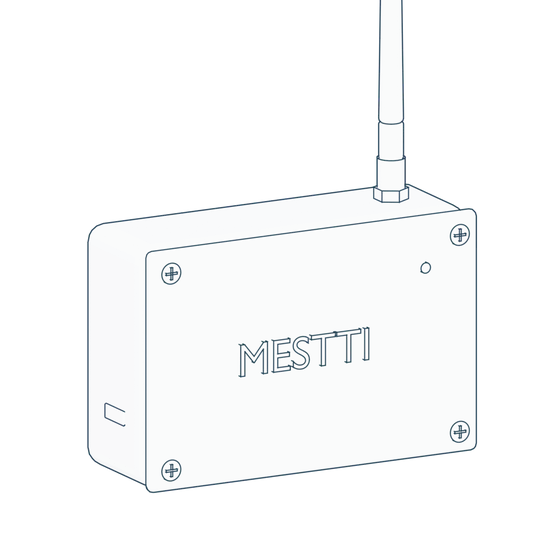
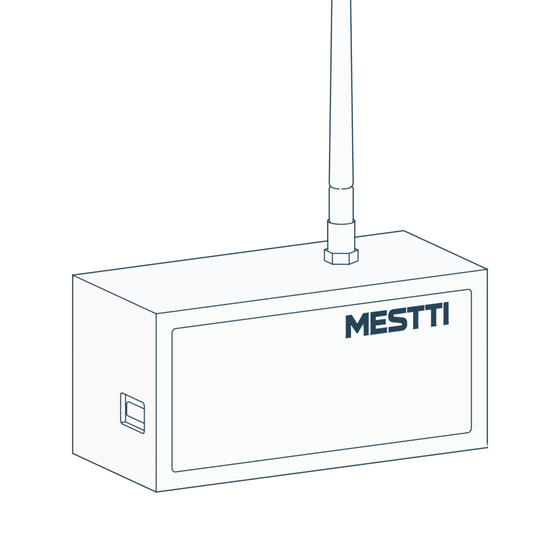
feat(manual): caixa real do sensor e seção "No dia a dia"
- Caixa remodelada pelas fotos: sem parafusos, painel rebaixado, logotipo
  real (gerado do PNG do site, em tinta sólida), USB-C numa ponta e, na
  outra, botão de reset ao lado da luz, abertura, furos e borne.
- Nova seção "No dia a dia": botão de reset (segurar 10 s volta ao modo
  de configuração), SEM SINAL em laranja (reconecta sozinho; continua
  medindo e a Mestti reconstrói o período), fonte sempre ligada, pinça
  fechada em uma fase, troca de máquina e leitura da luz.
- Ajuda: troca de Wi-Fi pelo reset e pergunta sobre SEM SINAL.
- Sequência da abertura em giro-v2/ para não servir quadros antigos do cache.

Changed region(s): [[0.1214, 0.0, 0.8804, 0.8804], [0.4857, 0.7893, 0.6982, 0.8196], [0.2125, 0.3643, 0.425, 0.3946]]

diff --git a/manual/sensor-de-corrente/index.html b/manual/sensor-de-corrente/index.html
@@ -13,14 +13,14 @@
     <link rel="preconnect" href="https://fonts.googleapis.com">
     <link rel="preconnect" href="https://fonts.gstatic.com" crossorigin>
     <link href="https://fonts.googleapis.com/css2?family=IBM+Plex+Mono:wght@400;500&family=Inter:wght@400;500;600;700&display=swap" rel="stylesheet">
-    <link rel="stylesheet" href="/css/manual-sensor.css?v=5">
+    <link rel="stylesheet" href="/css/manual-sensor.css?v=6">
     <link rel="canonical" href="https://mestti.com.br/manual/sensor-de-corrente/">
     <meta property="og:type" content="website">
     <meta property="og:site_name" content="MESTTI">
     <meta property="og:title" content="Manual do sensor de corrente | Mestti">
     <meta property="og:description" content="Como instalar o sensor de corrente Mestti no painel elétrico e conectar ao Wi-Fi.">
     <meta property="og:url" content="https://mestti.com.br/manual/sensor-de-corrente/">
-    <meta property="og:image" content="https://mestti.com.br/images/manual/sensor-de-corrente/kit-sensor.webp">
+    <meta property="og:image" content="https://mestti.com.br/images/manual/sensor-de-corrente/kit-sensor.webp?v=2">
     <meta property="og:locale" content="pt_BR">
     <script type="application/ld+json">{"@context": "https://schema.org", "@graph": [{"@type": "WebPage", "@id": "https://mestti.com.br/manual/sensor-de-corrente/#webpage", "url": "https://mestti.com.br/manual/sensor-de-corrente/", "name": "Manual do sensor de corrente | Mestti", "inLanguage": "pt-BR", "isPartOf": {"@id": "https://mestti.com.br/#website"}}, {"@type": "BreadcrumbList", "itemListElement": [{"@type": "ListItem", "position": 1, "name": "Início", "item": "https://mestti.com.br/"}, {"@type": "ListItem", "position": 2, "name": "Sensores", "item": "https://mestti.com.br/sensores/"}, {"@type": "ListItem", "position": 3, "name": "Manual do sensor de corrente", "item": "https://mestti.com.br/manual/sensor-de-corrente/"}]}]}</script>
 </head>
@@ -48,6 +48,7 @@
             <li><a href="#passo-7" data-rail="7"><span>07</span>Wi-Fi</a></li>
             <li><a href="#passo-8" data-rail="8"><span>08</span>Luz</a></li>
             <li><a href="#passo-9" data-rail="9"><span>09</span>Máquina</a></li>
+            <li><a href="#dia-a-dia" data-rail="10"><span>+</span>Dia a dia</a></li>
         </ol>
     </nav>
 
@@ -67,7 +68,7 @@
                         </dl>
                     </div>
                     <div class="ms-hero-art">
-                        <canvas class="ms-seq" data-seq="/images/manual/sensor-de-corrente/giro/" data-frames="36" data-seq-mode="hero" width="720" height="720" role="img" aria-label="Sensor Mestti ligado à pinça SCT-013, girando conforme a rolagem"></canvas>
+                        <canvas class="ms-seq" data-seq="/images/manual/sensor-de-corrente/giro-v2/" data-frames="36" data-seq-mode="hero" width="720" height="720" role="img" aria-label="Sensor Mestti ligado à pinça SCT-013, girando conforme a rolagem"></canvas>
                     </div>
                 </div>
                 <p class="ms-scroll-cue" aria-hidden="true"><span></span>Role para começar</p>
@@ -79,7 +80,7 @@
                 <p class="ms-kicker">Antes de começar</p>
                 <h2 id="kit-t">O que vem na caixa</h2>
                 <ul class="ms-kit-list">
-                    <li class="ms-in"><img src="/images/manual/sensor-de-corrente/kit-sensor.webp" alt="Sensor Mestti com antena" width="560" height="560" loading="lazy"><h3>Sensor</h3><p>Com antena e entrada USB-C.</p></li>
+                    <li class="ms-in"><img src="/images/manual/sensor-de-corrente/kit-sensor.webp?v=2" alt="Sensor Mestti com antena" width="560" height="560" loading="lazy"><h3>Sensor</h3><p>Com antena e entrada USB-C.</p></li>
                     <li class="ms-in"><img src="/images/manual/sensor-de-corrente/kit-sct.webp" alt="Pinça de corrente SCT-013" width="560" height="560" loading="lazy"><h3>Pinça SCT-013</h3><p>Abraça um fio de fase da máquina.</p></li>
                     <li class="ms-in"><img src="/images/manual/sensor-de-corrente/kit-fonte.webp?v=3" alt="Fonte 5 V com cabo micro USB e adaptador USB-C na ponta" width="560" height="560" loading="lazy"><h3>Fonte 5 V 3 A</h3><p>Cabo micro USB com adaptador para USB-C já encaixado.</p></li>
                     <li class="ms-in"><img src="/images/manual/sensor-de-corrente/kit-fita.webp" alt="Fita dupla face" width="560" height="560" loading="lazy"><h3>Fita dupla face</h3><p>Para fixar o sensor no painel.</p></li>
@@ -163,7 +164,7 @@
                     </ol>
                 </div>
                 <figure class="ms-art ms-stick ms-in" data-stick>
-                    <img src="/images/manual/sensor-de-corrente/sensor-verso.webp" alt="Costas do sensor com a fita dupla face colada e o protetor descolando" width="560" height="560" loading="lazy">
+                    <img src="/images/manual/sensor-de-corrente/sensor-verso.webp?v=2" alt="Costas do sensor com a fita dupla face colada e o protetor descolando" width="560" height="560" loading="lazy">
                 </figure>
             </div>
         </section>
@@ -406,6 +407,77 @@
             </div>
         </section>
 
+        <section class="ms-section ms-daily" id="dia-a-dia" aria-labelledby="dia-t">
+            <div class="ms-wrap">
+                <p class="ms-kicker">Depois de instalado</p>
+                <h2 id="dia-t">No dia a dia</h2>
+
+                <div class="ms-daily-row ms-in" id="reset">
+                    <div class="ms-daily-copy">
+                        <h3>Botão de reset</h3>
+                        <p>Fica na ponta do sensor, ao lado da luz. Segure por <strong>10 segundos</strong>: a luz passa a piscar a cada 1 segundo e o sensor volta ao modo de configuração. Depois, siga a partir do <a href="#passo-5">passo 5</a>.</p>
+                        <p>Use para trocar a rede ou a senha do Wi-Fi.</p>
+                        <p class="ms-note">O reset apaga o Wi-Fi salvo. Não use para resolver SEM SINAL.</p>
+                    </div>
+                    <figure class="ms-art">
+                        <img src="/images/manual/sensor-de-corrente/sensor-ponta.webp" alt="Ponta do sensor com o botão de reset destacado ao lado da luz" width="560" height="560" loading="lazy">
+                        <figcaption class="ms-led-card ms-led-card--hold">
+                            <span class="ms-hold" aria-hidden="true"><i></i></span>
+                            <span><strong>Segure 10 s</strong>Modo de configuração</span>
+                        </figcaption>
+                    </figure>
+                </div>
+
+                <div class="ms-daily-row ms-in">
+                    <div class="ms-daily-copy">
+                        <h3>SEM SINAL na Mestti</h3>
+                        <p>Quando a máquina aparece como <span class="ms-tag-off">SEM SINAL</span>, em laranja, a conexão do sensor está instável. Não precisa reiniciar: ele volta a se conectar sozinho.</p>
+                        <p>Enquanto está sem sinal, o sensor continua medindo e guarda as leituras. Quando a conexão volta, ele envia o que guardou e a Mestti reconstrói o período.</p>
+                    </div>
+                    <figure class="ms-art ms-gap" aria-label="Linha do tempo: um trecho sem sinal é preenchido depois que a conexão volta">
+                        <svg class="ms-gap-svg" viewBox="0 0 520 150" aria-hidden="true">
+                            <text x="0" y="16">Antes de a conexão voltar</text>
+                            <rect class="g-run" x="0" y="28" width="150" height="22" rx="3"/>
+                            <rect class="g-stop" x="152" y="28" width="58" height="22" rx="3"/>
+                            <rect class="g-off" x="212" y="28" width="170" height="22" rx="3"/>
+                            <text class="t-off" x="226" y="43">SEM SINAL</text>
+                            <rect class="g-run" x="384" y="28" width="136" height="22" rx="3"/>
+                            <text x="0" y="96">Depois</text>
+                            <rect class="g-run" x="0" y="108" width="150" height="22" rx="3"/>
+                            <rect class="g-stop" x="152" y="108" width="58" height="22" rx="3"/>
+                            <g class="g-fill">
+                                <rect class="g-run" x="212" y="108" width="96" height="22" rx="3"/>
+                                <rect class="g-stop" x="310" y="108" width="40" height="22" rx="3"/>
+                                <rect class="g-run" x="352" y="108" width="30" height="22" rx="3"/>
+                            </g>
+                            <rect class="g-run" x="384" y="108" width="136" height="22" rx="3"/>
+                            <path class="g-brace" d="M212 140v6h170v-6"/>
+                        </svg>
+                        <figcaption class="ms-gap-cap"><span><i class="k-run"></i>Rodando</span><span><i class="k-stop"></i>Parada</span><span><i class="k-off"></i>Sem sinal</span></figcaption>
+                    </figure>
+                </div>
+
+                <ul class="ms-tips">
+                    <li class="ms-in">
+                        <h3>Deixe a fonte sempre ligada</h3>
+                        <p>Sem energia, o sensor não mede. Se a tomada for desligada junto com a máquina, a Mestti não fica sabendo que ela parou: a máquina aparece sem sinal. Prefira uma tomada que continue ligada.</p>
+                    </li>
+                    <li class="ms-in">
+                        <h3>Pinça sempre fechada em uma fase</h3>
+                        <p>Se alguém mexer no painel, confira se a pinça continua fechada e em volta de um único fio. Aberta ou em volta do cabo inteiro, ela não lê a corrente.</p>
+                    </li>
+                    <li class="ms-in">
+                        <h3>Trocar o sensor de máquina</h3>
+                        <p>Instale a pinça na máquina nova e, em <strong>Cadastros › Máquinas</strong>, deixe a máquina antiga como <strong>Sem dispositivo vinculado</strong> e escolha o ID do sensor na nova.</p>
+                    </li>
+                    <li class="ms-in">
+                        <h3>A luz diz como ele está</h3>
+                        <p>Uma piscada a cada 5 segundos: tudo certo. Três piscadas: sem Wi-Fi. Piscando a cada segundo: modo de configuração. Detalhes no <a href="#passo-8">passo 8</a>.</p>
+                    </li>
+                </ul>
+            </div>
+        </section>
+
         <section class="ms-section ms-help" id="ajuda" aria-labelledby="ajuda-t">
             <div class="ms-wrap ms-help-grid">
                 <h2 id="ajuda-t">Se algo der errado</h2>
@@ -440,7 +512,11 @@
                     </details>
                     <details>
                         <summary>Preciso trocar o Wi-Fi depois</summary>
-                        <p>Fale com a Mestti. Vamos orientar a troca para esse sensor.</p>
+                        <p>Segure o botão ao lado da luz por 10 segundos. Quando a luz piscar a cada 1 segundo, configure de novo a partir do passo 5.</p>
+                    </details>
+                    <details>
+                        <summary>A máquina aparece SEM SINAL</summary>
+                        <p>A conexão do sensor está instável. Ele volta sozinho e envia o que mediu enquanto esteve fora. Não aperte o reset. Se continuar por muito tempo, confira se a fonte está ligada e se o roteador alcança o painel.</p>
                     </details>
                 </div>
             </div>
@@ -462,7 +538,7 @@
         </div>
     </footer>
 
-    <script defer src="/js/manual-sensor.js?v=4"></script>
+    <script defer src="/js/manual-sensor.js?v=5"></script>
 </body>
 
 </html>

diff --git a/css/manual-sensor.css b/css/manual-sensor.css
@@ -544,3 +544,48 @@ body[data-os="and"] .ms-phone::before { width: 12px; height: 12px; margin-left: 
     100.0% { transform: translate3d(0, 60.000svh, 0); opacity: 0.300; }
 }
 @media (prefers-reduced-motion: reduce) { .ms-step.is-dwell > .ms-wrap { animation: none; } }
+
+/* ---------- no dia a dia ---------- */
+.ms-daily h2 { margin-bottom: 8px; }
+.ms-daily-row {
+    display: grid; grid-template-columns: minmax(0, .9fr) minmax(0, 1.1fr); gap: clamp(32px, 6vw, 88px); align-items: center;
+    padding: clamp(40px, 6vw, 72px) 0; border-bottom: 1px solid var(--line-2);
+}
+.ms-daily-copy { max-width: 470px; }
+.ms-daily-copy h3, .ms-tips h3 { font-size: 1.3rem; margin-bottom: 12px; }
+.ms-daily .ms-art img { width: 100%; max-width: 460px; margin-inline: auto; }
+.ms-led-card--hold { right: 4%; bottom: 8%; }
+.ms-hold { position: relative; width: 22px; height: 22px; flex: none; }
+.ms-hold::before { content: ''; position: absolute; inset: 0; border-radius: 50%; border: 2px solid var(--line); }
+.ms-hold i { position: absolute; inset: 0; border-radius: 50%; background: conic-gradient(var(--acc) calc(var(--hp, 0) * 1turn), transparent 0); -webkit-mask: radial-gradient(circle, transparent 7px, #000 8px); mask: radial-gradient(circle, transparent 7px, #000 8px); }
+.ms-tag-off { font: 600 .82em var(--mono); color: #fff; background: #d97706; padding: 2px 7px; border-radius: 4px; white-space: nowrap; }
+
+.ms-gap-svg { width: 100%; height: auto; display: block; }
+.ms-gap-svg text { font: 500 12px var(--mono); fill: var(--muted); }
+.ms-gap-svg .t-off { fill: #fff; font-weight: 600; }
+.g-run { fill: #1f7a5c; }
+.g-stop { fill: #b42318; }
+.g-off { fill: #d97706; }
+.g-brace { fill: none; stroke: var(--acc); stroke-width: 1.4; }
+.g-fill rect { transform-box: fill-box; transform-origin: left center; transform: scaleX(0); transition: transform .5s var(--ease); }
+.g-fill rect:nth-child(2) { transition-delay: .45s; }
+.g-fill rect:nth-child(3) { transition-delay: .85s; }
+.ms-in.is-in .g-fill rect { transform: none; transition-delay: calc(.6s + var(--d, 0s)); }
+.ms-in.is-in .g-fill rect:nth-child(2) { --d: .45s; }
+.ms-in.is-in .g-fill rect:nth-child(3) { --d: .85s; }
+.g-brace { stroke-dasharray: 200; stroke-dashoffset: 200; transition: stroke-dashoffset .8s var(--ease) 1.9s; }
+.ms-in.is-in .g-brace { stroke-dashoffset: 0; }
+.ms-gap-cap { display: flex; gap: 18px; flex-wrap: wrap; margin-top: 14px; font-size: 13px; color: var(--muted); }
+.ms-gap-cap span { display: inline-flex; align-items: center; gap: 7px; }
+.ms-gap-cap i { width: 10px; height: 10px; border-radius: 2px; }
+.k-run { background: #1f7a5c; } .k-stop { background: #b42318; } .k-off { background: #d97706; }
+
+.ms-tips { list-style: none; margin: 0; padding: clamp(40px, 6vw, 64px) 0 0; display: grid; grid-template-columns: repeat(2, minmax(0, 1fr)); gap: 40px 64px; }
+.ms-tips li { padding-top: 18px; border-top: 1px solid var(--line); }
+.ms-tips p { color: var(--muted); margin: 0; }
+
+@media (max-width: 760px) {
+    .ms-daily-row { grid-template-columns: 1fr; gap: 28px; }
+    .ms-tips { grid-template-columns: 1fr; gap: 28px; }
+    .ms-led-card--hold { right: 0; bottom: 0; }
+}

diff --git a/js/manual-sensor.js b/js/manual-sensor.js
@@ -296,6 +296,20 @@
         });
     });
 
+    /* ---------- reset: anel enchendo em 10 s, em ciclo, enquanto visível ---------- */
+    var hold = document.querySelector('.ms-hold');
+    if (hold && 'IntersectionObserver' in window) {
+        var holdVis = false, holdT0 = 0;
+        new IntersectionObserver(function (es) { holdVis = es[0].isIntersecting; holdT0 = performance.now(); }).observe(hold);
+        (function holdTick(now) {
+            if (holdVis) {
+                var c = (now - holdT0) % 12000;              // 10 s segurando + 2 s cheio
+                hold.style.setProperty('--hp', reduce ? 1 : Math.min(1, c / 10000).toFixed(3));
+            }
+            requestAnimationFrame(holdTick);
+        })(performance.now());
+    }
+
     /* ---------- copiar o endereço ---------- */
     var copyBtn = document.querySelector('[data-copy]');
     if (copyBtn) {

diff --git a/docs/manual-sensor/kit.py b/docs/manual-sensor/kit.py
@@ -178,39 +178,78 @@ def fita(origin=(0, 0, 0)):
     liner = liner_curl(ox - L / 2 + 0.02, oy, oz + 0.235, Wd - 0.04, L - 0.75, 1.05, 0.42)
     return [foam, liner]
 
-def sensor_box(origin=(0, 0, 0), rot_z=0.0):
-    """Caixa Mestti 90 × 60 × 35 mm com antena, USB-C à esquerda e saída de cabo à direita."""
+INK = mat('ink', (0, 0, 0))
+LOGO_PNG = os.path.join(os.path.dirname(os.path.abspath(__file__)), '..', '..', 'images', 'MESTTI-logo-header-light.png')
+
+def logo(center, width):
+    """Malha plana com o formato do logotipo (um quadrado por pixel opaco do PNG, vértices
+    compartilhados para o Freestyle só desenhar a borda externa). Cor preta = tinta sólida."""
+    import bmesh
+    img = bpy.data.images.load(LOGO_PNG)
+    w, h = img.size
+    px = list(img.pixels)
+    on = [[px[(y * w + x) * 4 + 3] > 0.5 for x in range(w)] for y in range(h)]
+    k = width / w
+    cx, cy, cz = center
+    me = bpy.data.meshes.new('logo'); bm = bmesh.new(); vs = {}
+    def v(i, j):
+        if (i, j) not in vs:
+            vs[(i, j)] = bm.verts.new((cx + (i - w / 2) * k, cy, cz + (j - h / 2) * k))
+        return vs[(i, j)]
+    for y in range(h):
+        for x in range(w):
+            if on[y][x]:
+                bm.faces.new((v(x, y), v(x + 1, y), v(x + 1, y + 1), v(x, y + 1)))
+    bm.to_mesh(me); bm.free()
+    o = bpy.data.objects.new('logo', me); sc.collection.objects.link(o)
+    put(o); o.data.materials.clear(); o.data.materials.append(INK)
+    return o
+
+def sensor_box(origin=(0, 0, 0), rot_z=0.0, hl_button=False):
+    """Caixa Mestti 94 × 44 × 46 mm, impressa, sem parafusos.
+    Frente: painel rebaixado com a marca num quadro em relevo. Antena no topo, perto da ponta direita.
+    Ponta esquerda (−X): USB-C. Ponta direita (+X), vista de fora: botão de reset no alto à esquerda, luz ao lado,
+    abertura embaixo à esquerda, dois furos no meio (o cabo da pinça entra pelo de baixo)
+    e borne de parafuso à direita."""
     ox, oy, oz = origin
-    W, D, H = 9.0, 3.5, 6.0
+    W, D, H = 9.4, 4.4, 4.6
+    cz = oz + H / 2
     root = bpy.data.objects.new('sensor', None); sc.collection.objects.link(root)
     root.location = origin
     parts = []
-    body = box((W, D - 0.35, H), (ox, oy + 0.17, oz + H / 2), bev=0.45); parts.append(body)
-    lid = box((W, 0.35, H), (ox, oy - D / 2 + 0.17, oz + H / 2), bev=0.2, seg=3); parts.append(lid)
-    for sx in (-1, 1):
-        for sz in (-1, 1):
-            s = cyl(0.26, 0.08, (ox + sx * (W / 2 - 0.55), oy - D / 2 - 0.02, oz + H / 2 + sz * (H / 2 - 0.55)),
-                    rot=(math.pi / 2, 0, 0), verts=32); parts.append(s)
-            a = box((0.3, 0.03, 0.05), (s.location.x, oy - D / 2 - 0.07, s.location.z)); parts.append(a)
-            b = box((0.05, 0.03, 0.3), (s.location.x, oy - D / 2 - 0.07, s.location.z)); parts.append(b)
-    t = text('MESTTI', 1.15, (ox - 0.3, oy - D / 2 - 0.03, oz + H / 2), extrude=0.04); parts.append(t)
-    led = cyl(0.13, 0.12, (ox + W / 2 - 1.5, oy - D / 2 - 0.03, oz + H - 1.25), rot=(math.pi / 2, 0, 0), verts=24)
-    parts.append(led)
-    # antena SMA no topo à direita
-    ax = ox + W / 2 - 1.35
-    nut = cyl(0.42, 0.28, (ax, oy + 0.2, oz + H + 0.14), verts=6); parts.append(nut)
-    knurl = cyl(0.34, 0.75, (ax, oy + 0.2, oz + H + 0.65), verts=20); parts.append(knurl)
-    base = cyl(0.3, 0.9, (ax, oy + 0.2, oz + H + 1.45), verts=32, bev=0.05); parts.append(base)
-    ant = cyl(0.3, 7.4, (ax, oy + 0.2, oz + H + 5.6), verts=32, r2=0.2, bev=0.1); parts.append(ant)
-    tip = bpy.ops.mesh.primitive_uv_sphere_add(radius=0.2, location=(ax, oy + 0.2, oz + H + 9.3), segments=24, ring_count=12)
+    body = box((W, D, H), (ox, oy, cz), bev=0.28, seg=5); parts.append(body)
+    # frente: painel rebaixado
+    rec = box((W - 0.9, 0.2, H - 0.9), (ox, oy - D / 2, cz), bev=0.3, seg=4); cut(body, rec)
+    # marca no alto à direita do painel: o logotipo do site em tinta sólida
+    parts.append(logo((ox + 2.15, oy - D / 2 + 0.015, cz + 1.3), 2.9))
+    # ponta esquerda: USB-C
+    usb_o = box((0.3, 1.25, 0.8), (ox - W / 2, oy - 0.95, cz - 0.55), bev=0.08, seg=2); cut(body, usb_o)
+    usb = box((0.1, 0.95, 0.36), (ox - W / 2 + 0.12, oy - 0.95, cz - 0.55), bev=0.15, seg=4); parts.append(usb)
+    # ponta direita
+    ex = ox + W / 2
+    btn = cyl(0.22, 0.14, (ex + 0.02, oy - 0.95, cz + 1.25), rot=(0, math.pi / 2, 0), verts=32, accent=hl_button); parts.append(btn)
+    led = cyl(0.27, 0.1, (ex + 0.01, oy + 0.15, cz + 1.25), rot=(0, math.pi / 2, 0), verts=32); parts.append(led)
+    bpy.ops.mesh.primitive_uv_sphere_add(radius=0.25, location=(ex + 0.05, oy + 0.15, cz + 1.25), segments=24, ring_count=12)
+    dome = put(bpy.context.object); dome.scale = (0.6, 1, 1); parts.append(dome)
+    opening = box((0.4, 1.05, 1.35), (ex, oy - 0.95, cz - 0.55), bev=0.06, seg=2); cut(body, opening)
+    for z in (cz + 0.25, cz - 0.85):
+        hole = cyl(0.26, 0.4, (ex, oy + 0.15, z), rot=(0, math.pi / 2, 0), verts=32); cut(body, hole)
+    term_o = box((0.4, 1.0, 1.45), (ex, oy + 1.3, cz - 0.55), bev=0.06, seg=2); cut(body, term_o)
+    term = box((0.5, 0.9, 1.3), (ex - 0.2, oy + 1.3, cz - 0.55), bev=0.05, seg=2); parts.append(term)
+    for z in (cz - 0.2, cz - 0.9):
+        sc_ = cyl(0.2, 0.06, (ex + 0.06, oy + 1.3, z), rot=(0, math.pi / 2, 0), verts=24); parts.append(sc_)
+        box((0.03, 0.3, 0.05), (ex + 0.1, oy + 1.3, z)); parts.append(bpy.context.object)
+    # antena SMA no topo, perto da ponta direita
+    ax, ay = ox + 1.9, oy + 0.3
+    nut = cyl(0.42, 0.28, (ax, ay, oz + H + 0.14), verts=6); parts.append(nut)
+    knurl = cyl(0.34, 0.75, (ax, ay, oz + H + 0.65), verts=20); parts.append(knurl)
+    base = cyl(0.3, 0.9, (ax, ay, oz + H + 1.45), verts=32, bev=0.05); parts.append(base)
+    ant = cyl(0.3, 7.4, (ax, ay, oz + H + 5.6), verts=32, r2=0.2, bev=0.1); parts.append(ant)
+    bpy.ops.mesh.primitive_uv_sphere_add(radius=0.2, location=(ax, ay, oz + H + 9.3), segments=24, ring_count=12)
     parts.append(put(bpy.context.object))
-    # USB-C na lateral esquerda
-    usb = box((0.06, 0.95, 0.36), (ox - W / 2 - 0.02, oy, oz + 1.6), bev=0.15, seg=4); parts.append(usb)
-    # prensa-cabo à direita
-    gland = cyl(0.42, 0.45, (ox + W / 2 + 0.2, oy, oz + 1.6), rot=(0, math.pi / 2, 0), verts=32, bev=0.06); parts.append(gland)
-    parent(parts, root)
+    parent(parts + [body], root)
     root.rotation_euler.z = rot_z
-    return root, (ox + W / 2 + 0.45, oy, oz + 1.6), (ox - W / 2 - 0.05, oy, oz + 1.6)
+    return root, (ex + 0.1, oy + 0.15, cz - 0.85), (ox - W / 2, oy - 0.95, cz - 0.55)
 
 def setup(cam_loc, target, ortho=None, lens=60, hidden=True):
     r = sc.render
@@ -298,7 +337,7 @@ elif SCENE == 'clamp':
         shot(f'{f:03d}')
 elif SCENE == 'sensor':
     sensor_box((0, 0, 0))
-    setup((-14, -26, 12), (0, 0, 4.4), ortho=13.5, hidden=False); shot('000')
+    setup((-14, -26, 12), (0, 0, 4.4), ortho=14.0, hidden=False); shot('000')
 elif SCENE == 'sct':
     sct((0, 0, 0))
     tube([(0, 0, -0.4), (0.3, 0.3, -2.4), (-0.9, 0.7, -4.0), (-2.4, 0.4, -4.4)], 0.17)
@@ -316,5 +355,9 @@ elif SCENE == 'verso':
     holder = bpy.data.objects.new('tape', None); sc.collection.objects.link(holder)
     parent(tape, holder)
     holder.rotation_euler = (-math.pi / 2, 0, 0); holder.scale = (1.55, 1.55, 1.0)
-    holder.location = (0, 1.75, 3.0)
-    setup((22, 18, 9), (0, 1.0, 4.8), ortho=14.5, hidden=False); shot('000')
+    holder.location = (0, 2.25, 2.3)
+    setup((22, 18, 9), (0, 1.2, 4.0), ortho=14.5, hidden=False); shot('000')
+elif SCENE == 'ponta':
+    # ponta direita de perto: botão de reset (destaque) ao lado da luz
+    sensor_box((0, 0, 0), hl_button=True)
+    setup((24, -12, 8), (3.3, 0, 2.6), ortho=8.6, hidden=False); shot('000')
